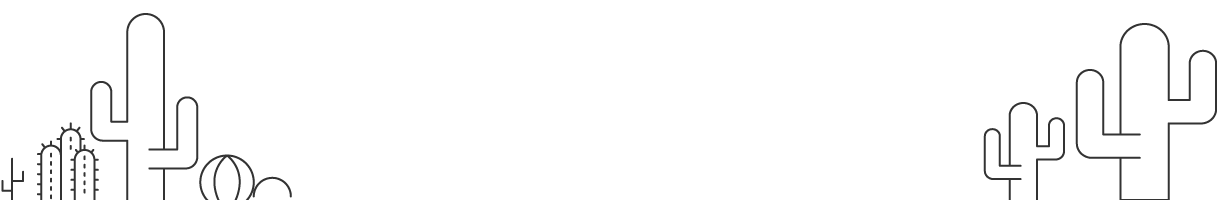
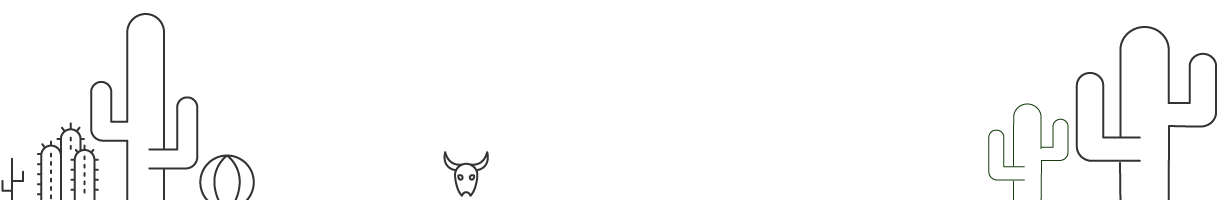
Work of 3/22
- redesigned top nav
- new sticker component
- mobile fixes for link section

diff --git a/src/pages/index.js b/src/pages/index.js
@@ -4,26 +4,23 @@ import { StaticImage } from "gatsby-plugin-image"
 
 import Layout from "../components/layout"
 import Seo from "../components/seo"
+import Sticker from "../components/sticker"
 
 const IndexPage = () => (
   <Layout>
     <Seo title="Home" />
 
+    <div style={{
 
+      maxWidth: 1170,
+      padding: `0 1.0875rem 1.45rem`,
+      margin: `0 auto`,
+      background:`url()no-repeat`,
 
-
-<div style={{
-
-  maxWidth: 1170,
-  padding: `0 1.0875rem 1.45rem`,
-  margin: `0 auto`,
-  background:`url()no-repeat`,
-
-}}>
+    }}>
 
 
 <div className="top-section">
-
 
     <StaticImage
       src="../images/book-cover.png"
@@ -42,7 +39,7 @@ const IndexPage = () => (
     <h3>Illustrated by Lucy Shin</h3>
 
     <p>
-<svg viewBox="0 0 233.03 233.03" className="sticker"><path class="cls-1" d="M146.63,227.06a18.19,18.19,0,0,1-8.72-2.28c-5.6-3.07-13-4.77-20.85-4.77s-15.26,1.7-20.86,4.77a18.19,18.19,0,0,1-8.72,2.28,17.59,17.59,0,0,1-16-10.3c-5.59-11.87-20.73-22.87-33.75-24.52a17.58,17.58,0,0,1-15.26-21c2.45-12.89-3.33-30.69-12.9-39.68a17.61,17.61,0,0,1,0-26c9.57-9,15.35-26.78,12.9-39.67a17.59,17.59,0,0,1,15.26-21c13-1.65,28.16-12.65,33.75-24.52a17.59,17.59,0,0,1,16-10.3,18.19,18.19,0,0,1,8.72,2.28c5.6,3.08,13,4.77,20.86,4.77s15.25-1.69,20.85-4.77a18.19,18.19,0,0,1,8.72-2.28,17.59,17.59,0,0,1,16,10.3c5.59,11.87,20.73,22.87,33.75,24.52a17.6,17.6,0,0,1,15.26,21c-2.45,12.89,3.33,30.69,12.9,39.67a17.61,17.61,0,0,1,0,26c-9.57,9-15.35,26.79-12.9,39.68a17.58,17.58,0,0,1-15.26,21c-13,1.65-28.16,12.65-33.75,24.52A17.59,17.59,0,0,1,146.63,227.06Z"/><path d="M146.63,13.1a14.61,14.61,0,0,1,13.26,8.58C166,34.59,181.82,46.11,196,47.9a14.61,14.61,0,0,1,12.69,17.46c-2.67,14,3.38,32.66,13.78,42.43a14.6,14.6,0,0,1,0,21.59c-10.4,9.77-16.45,28.4-13.78,42.42A14.61,14.61,0,0,1,196,189.26c-14.16,1.8-30,13.31-36.09,26.22a14.61,14.61,0,0,1-13.26,8.58,15,15,0,0,1-7.27-1.9c-6-3.32-14-5.15-22.3-5.15s-16.27,1.83-22.31,5.14a14.9,14.9,0,0,1-7.27,1.91,14.61,14.61,0,0,1-13.26-8.58c-6.08-12.91-21.93-24.42-36.09-26.22A14.61,14.61,0,0,1,25.44,171.8c2.67-14-3.38-32.65-13.78-42.42a14.6,14.6,0,0,1,0-21.59C22.06,98,28.11,79.38,25.44,65.36A14.61,14.61,0,0,1,38.13,47.9c14.16-1.79,30-13.31,36.09-26.22A14.61,14.61,0,0,1,87.48,13.1,14.9,14.9,0,0,1,94.75,15c6,3.31,14,5.14,22.31,5.14s16.26-1.83,22.3-5.14a14.9,14.9,0,0,1,7.27-1.91m0-6a21,21,0,0,0-10.16,2.65c-5.34,2.93-12.38,4.4-19.41,4.4S103,12.68,97.64,9.75A21,21,0,0,0,87.48,7.1a20.62,20.62,0,0,0-18.69,12C63.6,30.15,49.47,40.42,37.38,42A20.6,20.6,0,0,0,19.55,66.49c2.28,12-3.12,28.58-12,36.92a20.61,20.61,0,0,0,0,30.34c8.88,8.34,14.28,25,12,36.93a20.6,20.6,0,0,0,17.83,24.54C49.47,196.75,63.6,207,68.79,218a20.61,20.61,0,0,0,18.69,12,21,21,0,0,0,10.16-2.65C103,224.48,110,223,117.06,223s14.07,1.47,19.41,4.4a21,21,0,0,0,10.16,2.65,20.61,20.61,0,0,0,18.69-12c5.19-11,19.32-21.29,31.41-22.82a20.6,20.6,0,0,0,17.83-24.54c-2.28-12,3.12-28.59,12-36.93a20.61,20.61,0,0,0,0-30.34c-8.88-8.34-14.28-25-12-36.92A20.6,20.6,0,0,0,196.73,42c-12.09-1.53-26.22-11.8-31.41-22.83a20.6,20.6,0,0,0-18.69-12Z"/><path d="M88.48,90.28c-.12-3.91-.14-7.69-.08-11.33s.14-6.91.23-9.82a2.13,2.13,0,0,1,.4-1.45,1.11,1.11,0,0,1,1.1-.09,7.76,7.76,0,0,1,1.27.48,8.69,8.69,0,0,1,1.45,1,2.81,2.81,0,0,1,1,1.36,6,6,0,0,1,.15,1.8q-.11,3.14-.17,7.31c0,2.79-.07,5.66-.08,8.63s0,5.91,0,8.83,0,5.55,0,7.91c0,1.29-.42,1.78-1.43,1.48a12.49,12.49,0,0,1-2.67-1,5,5,0,0,1-2-2.86c-.35-1-.72-2.13-1.11-3.41s-.79-2.68-1.19-4.15-.81-3-1.22-4.55-.8-3.13-1.18-4.69c0,1.91,0,3.85-.06,5.81s0,3.86-.05,5.66,0,3.52,0,5.12,0,3,0,4.25a1.78,1.78,0,0,1-.22,1.12c-.16.17-.48.16-1,0l-1.37-.5a3.56,3.56,0,0,1-1.33-.91,2.62,2.62,0,0,1-.88-1.21,6.46,6.46,0,0,1-.28-2c0-.88-.07-2.1-.1-3.65s-.06-3.29-.09-5.23,0-4,0-6.19,0-4.33,0-6.45,0-4.13.07-6,.09-3.59.15-5a2.23,2.23,0,0,1,.49-1.53,1.08,1.08,0,0,1,1.12-.12c.59.21,1.18.44,1.76.68a12.74,12.74,0,0,1,1.83,1,2.89,2.89,0,0,1,1.16,1.19,9.73,9.73,0,0,1,.7,2.25c.16.77.38,1.78.65,3s.56,2.62.9,4.1.68,3,1,4.65S88.13,88.78,88.48,90.28Z"/><path d="M108.45,68.2a9.14,9.14,0,0,1,1.67,2.49,18.58,18.58,0,0,1,1,3.11,54.56,54.56,0,0,1,1.06,6.93,64.24,64.24,0,0,1,.28,7.75,56.5,56.5,0,0,1-.68,7.59,26.31,26.31,0,0,1-1.79,6.41,5.57,5.57,0,0,1-2,2.33,4.41,4.41,0,0,1-2.68.52,12.45,12.45,0,0,1-2.13-.41,6,6,0,0,1-2.08-1.09,9.94,9.94,0,0,1-1.56-1.68,9,9,0,0,1-1.31-2.41A30.21,30.21,0,0,1,97,94.91a50.57,50.57,0,0,1-.68-5.51c-.13-1.89-.17-3.83-.11-5.79a46.18,46.18,0,0,1,.53-5.74,43.23,43.23,0,0,1,1.16-5.29,21.72,21.72,0,0,1,1.82-4.47,5.2,5.2,0,0,1,1.78-1.8,3.25,3.25,0,0,1,2.11-.51,10.42,10.42,0,0,1,2.67.82A7.28,7.28,0,0,1,108.45,68.2Zm-3.3,4.4c-.34-.14-.69.16-1,.9a14.59,14.59,0,0,0-1,2.92c-.29,1.21-.55,2.57-.77,4.1s-.37,3-.46,4.4-.11,3-.07,4.56.16,3.08.33,4.44a21.06,21.06,0,0,0,.7,3.48c.29,1,.65,1.54,1.07,1.73s.74,0,1.1-.53a8.29,8.29,0,0,0,1-2.48,34.74,34.74,0,0,0,.69-4c.19-1.56.31-3.24.36-5.06.06-1.44.06-3,0-4.6s-.17-3.16-.34-4.57a26.11,26.11,0,0,0-.64-3.62C105.79,73.3,105.48,72.73,105.15,72.6Z"/><path d="M121.45,83.82q.48-3.28,1-6.27t.9-5.37c.27-1.58.51-2.74.7-3.48a2.38,2.38,0,0,1,.5-1.17,1.08,1.08,0,0,1,1-.11,5.74,5.74,0,0,1,1.2.43c.33.17.72.37,1.18.59a1.91,1.91,0,0,1,.91,1,9.62,9.62,0,0,1,.32,1.81c.05.47.11,1.3.2,2.49s.18,2.57.3,4.16.24,3.31.38,5.15.28,3.67.42,5.46q.41-3.42.9-7.18c.33-2.51.64-4.9.95-7.16s.58-4.31.85-6.13.47-3.2.61-4.14.3-1.3.52-1.41.6,0,1.15.27a13.36,13.36,0,0,1,2.39,1.89,3.78,3.78,0,0,1,.8,1.83,7.62,7.62,0,0,1,0,2.08c-.21,1.32-.44,2.86-.67,4.62s-.47,3.63-.73,5.58-.5,4-.75,6-.5,4.11-.72,6.09-.43,3.88-.63,5.67-.38,3.4-.53,4.82a1.93,1.93,0,0,1-.57,1.31,1.59,1.59,0,0,1-1.34.12,10.73,10.73,0,0,1-1.56-.5,14.4,14.4,0,0,0-1.35-.52,2.73,2.73,0,0,1-1.23-1.28,7.25,7.25,0,0,1-.61-1.91c-.13-.67-.27-1.49-.45-2.48L127,92.93q-.27-1.68-.54-3.45c-.18-1.17-.33-2.3-.44-3.38-.26,1.43-.52,2.93-.78,4.51s-.52,3.12-.77,4.61-.47,2.89-.67,4.19-.36,2.39-.49,3.25-.33,1.17-.57,1.32a1.33,1.33,0,0,1-1,.07,15.23,15.23,0,0,1-3.15-1.09,2.11,2.11,0,0,1-1-1,7.51,7.51,0,0,1-.51-2.07c-.19-1.34-.4-2.88-.63-4.61s-.43-3.56-.64-5.49-.4-4-.59-6-.37-4.06-.55-6.06-.32-3.92-.45-5.78-.23-3.56-.31-5.09a3.13,3.13,0,0,1,.19-1.6c.16-.26.5-.33,1-.21a15.49,15.49,0,0,1,1.6.47,4.89,4.89,0,0,1,1.38.8,3.26,3.26,0,0,1,1,1.86,13.44,13.44,0,0,1,.31,2.35c0,.71.1,1.78.17,3.2s.16,3,.25,4.84.21,3.69.34,5.67.26,3.88.4,5.71C120.82,88.05,121.12,86,121.45,83.82Z"/><path d="M49,154.33a19.54,19.54,0,0,0-3.3,1.57c-.24,1.33-.44,2.57-.6,3.73s-.32,2.29-.47,3.4c-.1.59-.25.95-.44,1.07s-.5.07-.93-.16l-.8-.5a10.14,10.14,0,0,1-.9-.65,3.9,3.9,0,0,1-.78-.84,2.71,2.71,0,0,1-.44-1.08,11.1,11.1,0,0,1,0-2.09q.38-3.42,1-7.76t1.31-8.84c.47-3,1-5.91,1.47-8.75s1-5.3,1.44-7.39a5.25,5.25,0,0,1,.74-1.82,1.7,1.7,0,0,1,1.59-.68,9.71,9.71,0,0,1,3.12.33c.81.26,1.58.52,2.32.78a1.93,1.93,0,0,1,1.1,1,5.92,5.92,0,0,1,.38,1.88q.27,2.9.71,6.91t1,8.52c.38,3,.79,6,1.21,9.16s.84,6.07,1.25,8.89a2.59,2.59,0,0,1,0,1.29q-.16.38-.84.45t-1.29.06a3.21,3.21,0,0,1-1.3-.35,2.11,2.11,0,0,1-1-.82,6.61,6.61,0,0,1-.59-1.93c-.18-1-.37-2-.58-3.16s-.4-2.37-.59-3.68Zm2.65-8.88c-.31-2.43-.62-4.81-.93-7.17s-.57-4.65-.81-6.88q-.6,3.14-1.33,7.11t-1.45,8.34A34.69,34.69,0,0,1,51.64,145.45Z"/><path d="M75.79,131.27q-.23,2.58-.56,5.59t-.72,6.21q-.39,3.23-.81,6.31c-.29,2.06-.56,4-.82,5.87s-.51,3.49-.74,4.91a3,3,0,0,1-.73,1.69c-.31.26-.79.25-1.45,0s-1.26-.55-1.83-.83a10.8,10.8,0,0,1-1.82-1.13,5.28,5.28,0,0,1-1.69-2.15,15.32,15.32,0,0,1-.92-2.54q-1.41-6.4-2.68-14t-2.41-16a4.8,4.8,0,0,1,0-1.51c.08-.3.35-.47.81-.52a4.16,4.16,0,0,1,1.28,0,5.64,5.64,0,0,1,1.28.45,4.17,4.17,0,0,1,2.08,3.31c.22,1.35.47,2.88.74,4.61s.57,3.6.9,5.61.67,4.12,1,6.31.74,4.42,1.13,6.66q1-6.85,1.76-14c.52-4.77,1-9.3,1.52-13.62a1.81,1.81,0,0,1,.36-1,.78.78,0,0,1,.66-.25,2,2,0,0,1,.87.34,11.52,11.52,0,0,1,1,.72A6.29,6.29,0,0,1,75.69,124a4.23,4.23,0,0,1,.42,2.79C76.05,128.07,76,129.55,75.79,131.27Z"/><path d="M86.9,150.31a19.29,19.29,0,0,0-3.31,1.57c-.23,1.33-.43,2.57-.59,3.73s-.32,2.29-.48,3.4c-.09.59-.24,1-.43,1.07s-.5.07-.93-.16l-.8-.5a7.87,7.87,0,0,1-.9-.65,3.9,3.9,0,0,1-.78-.84,2.65,2.65,0,0,1-.44-1.08,10.28,10.28,0,0,1,0-2.09c.25-2.28.57-4.87,1-7.76s.85-5.84,1.32-8.84,1-5.91,1.46-8.75,1-5.3,1.45-7.39a5.25,5.25,0,0,1,.74-1.82,1.7,1.7,0,0,1,1.59-.68,9.71,9.71,0,0,1,3.12.33q1.22.39,2.31.78a1.92,1.92,0,0,1,1.11,1,6.21,6.21,0,0,1,.38,1.88c.18,1.93.41,4.23.71,6.91s.64,5.52,1,8.52.78,6.05,1.21,9.16.84,6.07,1.25,8.9a2.56,2.56,0,0,1,0,1.28q-.16.38-.84.45c-.46,0-.89.06-1.3.06a3.21,3.21,0,0,1-1.29-.35,2,2,0,0,1-1-.82,6.61,6.61,0,0,1-.59-1.93c-.18-1-.38-2-.58-3.16s-.4-2.37-.59-3.68Zm2.64-8.88c-.31-2.43-.61-4.81-.92-7.17s-.57-4.65-.81-6.88q-.6,3.13-1.33,7.11c-.49,2.64-1,5.42-1.45,8.34A36.15,36.15,0,0,1,89.54,141.43Z"/><path d="M102.47,121a3,3,0,0,1,1,1.2,4.48,4.48,0,0,1,.16,1.65c-.08,1.27-.15,2.76-.22,4.48s-.11,3.53-.17,5.46-.09,4-.13,6-.07,4.14-.1,6.15,0,3.95,0,5.82,0,3.54,0,5a2.13,2.13,0,0,1-.25,1.15c-.14.18-.45.2-.92.05l-1.4-.57a5,5,0,0,1-1.3-.79,2.55,2.55,0,0,1-.92-1.2,7.36,7.36,0,0,1-.32-2c-.07-1.15-.12-2.59-.17-4.31s-.08-3.58-.11-5.59,0-4.11-.06-6.29,0-4.29,0-6.34,0-4,.08-5.79.08-3.36.13-4.62a2.27,2.27,0,0,1,.42-1.43c.23-.19.59-.2,1.1,0a7.27,7.27,0,0,1,1.66.77A10.17,10.17,0,0,1,102.47,121Z"/><path d="M118.19,153.38,114.87,155c-1.13.55-2.21,1.08-3.23,1.6a2.77,2.77,0,0,1-1,.43,1.59,1.59,0,0,1-.69,0,1.22,1.22,0,0,1-.51-.25,4.32,4.32,0,0,1-.45-.42,11.28,11.28,0,0,1-.93-1c-.28-.36-.65-.83-1.12-1.39a5.7,5.7,0,0,1-.83-1.52,6.16,6.16,0,0,1-.32-2.09c0-1.26-.09-2.71-.12-4.37s0-3.41,0-5.26,0-3.79.06-5.77.07-3.93.13-5.85.12-3.74.19-5.47.16-3.3.25-4.71a2.11,2.11,0,0,1,.48-1.4,1.1,1.1,0,0,1,1.08,0,8.63,8.63,0,0,1,1.65.72,8.88,8.88,0,0,1,1.63,1.13,3.16,3.16,0,0,1,.91,1.21,3.69,3.69,0,0,1,.11,1.6q-.18,2.53-.33,5.67c-.1,2.09-.2,4.27-.28,6.53s-.17,4.55-.24,6.88-.14,4.59-.18,6.77a20.61,20.61,0,0,1,2.17-.79c.69-.21,1.44-.41,2.23-.6a1.49,1.49,0,0,1,1.1.07,2.39,2.39,0,0,1,.85,1.11,16.27,16.27,0,0,1,.73,1.71c.21.6.38,1.17.53,1.74a4.87,4.87,0,0,1,.27,1.4C119,152.88,118.71,153.13,118.19,153.38Z"/><path d="M128.69,145.88a19.54,19.54,0,0,0-3.3,1.57c-.24,1.32-.43,2.57-.6,3.73s-.31,2.29-.47,3.4c-.1.59-.24.94-.43,1.07s-.5.07-.93-.16l-.8-.5a7.87,7.87,0,0,1-.9-.65,3.9,3.9,0,0,1-.78-.84,2.57,2.57,0,0,1-.44-1.08,10.37,10.37,0,0,1,0-2.1c.24-2.27.57-4.86,1-7.75s.85-5.84,1.32-8.84,1-5.92,1.46-8.75,1-5.3,1.45-7.4a5.09,5.09,0,0,1,.74-1.81,1.7,1.7,0,0,1,1.59-.68,9.71,9.71,0,0,1,3.12.33c.81.26,1.58.51,2.31.78a1.89,1.89,0,0,1,1.11,1,6.53,6.53,0,0,1,.38,1.88q.26,2.9.71,6.91t1,8.51c.39,3,.79,6.06,1.22,9.16s.84,6.08,1.25,8.9a2.59,2.59,0,0,1,0,1.29c-.11.25-.39.4-.84.44a12,12,0,0,1-1.3.07,3.21,3.21,0,0,1-1.29-.35,2.07,2.07,0,0,1-1-.82,6.61,6.61,0,0,1-.59-1.93c-.18-1-.38-2-.58-3.16s-.4-2.37-.59-3.68Zm2.65-8.88c-.31-2.43-.61-4.82-.92-7.17s-.57-4.65-.81-6.88c-.4,2.09-.84,4.46-1.34,7.11s-1,5.42-1.44,8.34A34.55,34.55,0,0,1,131.34,137Z"/><path d="M152.24,133.25a6.82,6.82,0,0,1,1.94,2.37A13.43,13.43,0,0,1,155.4,139a10.28,10.28,0,0,1,.17,3.69,11.14,11.14,0,0,1-1,3.15,12.46,12.46,0,0,1-1.4,2.35,22.61,22.61,0,0,1-1.76,2.11,18.79,18.79,0,0,1-1.92,1.79,17.9,17.9,0,0,1-1.91,1.35,6.48,6.48,0,0,1-.84.47,1.45,1.45,0,0,1-.69.16,1.49,1.49,0,0,1-.69-.21,4,4,0,0,1-.8-.61A9.61,9.61,0,0,1,143,152c-.44-.45-1-1-1.55-1.76-.23-.38-.43-.71-.61-1a4.49,4.49,0,0,1-.43-.88,5.08,5.08,0,0,1-.26-1.07,12.21,12.21,0,0,1-.1-1.53c-.1-2-.17-4.15-.21-6.55s-.08-4.85-.13-7.35-.1-5-.16-7.46-.16-4.75-.3-6.85a14.62,14.62,0,0,1,3-2.52,13.6,13.6,0,0,1,3.69-1.7,8.77,8.77,0,0,1,3.64-.28,4.33,4.33,0,0,1,2.88,1.66,21.16,21.16,0,0,1,1.78,2.86,17.47,17.47,0,0,1,1.34,3.67,10.69,10.69,0,0,1,.16,4.59,14.55,14.55,0,0,1-1.28,3.92q-.48.87-1,1.74A15.68,15.68,0,0,1,152.24,133.25Zm-7.16,5.15c0,1.31-.05,2.59-.08,3.85s0,2.55,0,3.84a13.12,13.12,0,0,0,2.33-1.8,10.58,10.58,0,0,0,1.68-2.08,8.18,8.18,0,0,0,.94-2.07,3.34,3.34,0,0,0,.07-1.79,1.65,1.65,0,0,0-.59-.81,2.13,2.13,0,0,0-1-.38,3.65,3.65,0,0,0-1.48.24A6.63,6.63,0,0,0,145.08,138.4Zm.25-7.65a13.49,13.49,0,0,0,2.56-2.44,17.47,17.47,0,0,0,1.79-2.73,10.37,10.37,0,0,0,1-2.5,3.75,3.75,0,0,0,.07-1.8c-.21-.7-.79-1-1.75-.82a6.8,6.8,0,0,0-3.31,2.07c-.09,1.2-.15,2.49-.2,3.86S145.38,129.21,145.33,130.75Z"/><path d="M170.22,147.87l-3.32,1.6c-1.13.55-2.21,1.08-3.24,1.6a2.71,2.71,0,0,1-1,.44,1.75,1.75,0,0,1-.69,0,1.32,1.32,0,0,1-.52-.25l-.45-.41a11.45,11.45,0,0,1-.92-1.06c-.28-.36-.65-.82-1.12-1.39a5.7,5.7,0,0,1-.83-1.52,6.12,6.12,0,0,1-.32-2.09c-.06-1.26-.09-2.71-.12-4.36s0-3.41,0-5.27,0-3.78.06-5.76.07-3.94.13-5.85.11-3.74.19-5.47.15-3.3.25-4.71a2.12,2.12,0,0,1,.48-1.41,1.09,1.09,0,0,1,1.07,0,8.43,8.43,0,0,1,1.66.72,8.21,8.21,0,0,1,1.62,1.13,3.15,3.15,0,0,1,.92,1.2,3.9,3.9,0,0,1,.11,1.61c-.12,1.68-.23,3.57-.33,5.66s-.2,4.27-.28,6.53-.17,4.56-.25,6.88-.13,4.59-.17,6.78a20.75,20.75,0,0,1,2.17-.8c.69-.21,1.43-.41,2.23-.59a1.45,1.45,0,0,1,1.1.06,2.52,2.52,0,0,1,.85,1.11,16.38,16.38,0,0,1,.72,1.72,16.12,16.12,0,0,1,.53,1.73,4.28,4.28,0,0,1,.27,1.41C171,147.36,170.73,147.61,170.22,147.87Z"/><path d="M177.06,111.22a24.41,24.41,0,0,1,5.45-1.65c.87-.16,1.51.35,1.91,1.53a13.63,13.63,0,0,1,.64,1.68c.15.49.31,1,.48,1.63a3.18,3.18,0,0,1,.09,1.45,1.15,1.15,0,0,1-.81.63c-.91.26-1.88.55-2.89.86s-2.05.67-3.15,1.06c-.08,1.27-.16,2.61-.22,4s-.16,2.88-.26,4.43a9.12,9.12,0,0,1,1.47-.44c.49-.1,1-.2,1.53-.29a1.73,1.73,0,0,1,1.11.11,2.23,2.23,0,0,1,.8,1.07,14,14,0,0,1,.69,1.72c.18.56.36,1.14.53,1.73a2.86,2.86,0,0,1,.19,1.42,1.39,1.39,0,0,1-.78.69q-1.47.67-3,1.32c-1,.43-2,.89-3,1.36,0,1-.06,2-.1,2.9s-.07,1.86-.11,2.75a21.41,21.41,0,0,1,2.26-.88c.73-.23,1.52-.44,2.36-.63a1.43,1.43,0,0,1,1.13.09,2.2,2.2,0,0,1,.82,1.09,18.72,18.72,0,0,1,.72,1.76l.59,1.73a3.31,3.31,0,0,1,.17,1.39c-.07.26-.32.5-.76.72-1.08.52-2.19,1.07-3.32,1.63s-2.21,1.09-3.24,1.57a2,2,0,0,1-1.6.4,2.85,2.85,0,0,1-1-.68c-.34-.34-.66-.69-1-1s-.67-.83-1.08-1.4a5.62,5.62,0,0,1-.84-1.6,8.3,8.3,0,0,1-.38-2.26l0-29.57A45.9,45.9,0,0,1,177.06,111.22Z"/><path d="M188.55,142.83a4.6,4.6,0,0,1,.58-1.62,2.17,2.17,0,0,1,1-.93,2,2,0,0,1,1.53.09,2.9,2.9,0,0,1,1.27.92,5.41,5.41,0,0,1,.82,1.39,6.61,6.61,0,0,1,.41,1.57,7.14,7.14,0,0,1,.05,1.43,7.47,7.47,0,0,1-.19,1.12,6.59,6.59,0,0,1-.43,1.25,3.58,3.58,0,0,1-.73,1,1.73,1.73,0,0,1-1,.5,2.38,2.38,0,0,1-2.24-1.07,6.5,6.5,0,0,1-1.18-3.69A7.65,7.65,0,0,1,188.55,142.83Zm6.44-33a4.59,4.59,0,0,1,.15,1.81q-.22,3.14-.45,6.47c-.14,2.21-.28,4.43-.41,6.64s-.24,4.38-.34,6.51-.17,4.13-.22,6a2,2,0,0,1-.27,1.28c-.17.17-.46.2-.88.07a6.72,6.72,0,0,1-2.65-1.25,2.57,2.57,0,0,1-.92-1.19,5.93,5.93,0,0,1-.23-2q0-2.66,0-6.11c0-2.31.06-4.65.11-7s.11-4.69.19-7,.17-4.25.26-6a2.56,2.56,0,0,1,.39-1.5c.21-.21.58-.21,1.12,0a9.49,9.49,0,0,1,3.2,1.86A3.23,3.23,0,0,1,195,109.85Z"/></svg>
+    <Sticker />
     Our hope in writing this book is to help our kids, families, and adults reconnect with the wonders of the natural world. In the past decades, we've seen society drift more and more into the metaverse and our mission is to remind all of us to appreciate the wonders of nature that are often right outside our door. With more reliance on technology and the ever increasing pace of life, it is even more vital that our children actively engage with the natural world, benefit from its restorative effects on mental and physical health, and see the magic that exists there. </p>
 
     <p>We hope that Min and Chula's adventures wow and fascinate us with the place we all call home and do what we can to protect, preserve, and restore it.</p>
@@ -58,7 +55,6 @@ const IndexPage = () => (
     <div id="bio">
 
     <div style={{
-
       maxWidth: 968,
       padding: `0 1.0875rem 8.45rem`,
       margin: `3rem auto 0`,
@@ -126,19 +122,18 @@ const IndexPage = () => (
 
 <h1>Get Outside!</h1>
 
-<div style={{
-  display:`flex`,
-  padding: `0 1.0875rem 1.45rem`,
-  margin: `3rem auto`,
-  justifyContent:`center`,
-  alignItems:`center`,
-  }}>
+<div className="nps-section">
 
-  <div style={{
-    marginRight:`3rem`,
-  }}>
+  <div className="nps-logo">
 
-  <a title="U.S. government, National Park Service, Public domain, via Wikimedia Commons" href="javascript:void()"><img width="256" alt="US-NationalParkService-Logo" src="https://upload.wikimedia.org/wikipedia/commons/thumb/1/1d/US-NationalParkService-Logo.svg/256px-US-NationalParkService-Logo.svg.png" /></a>
+<StaticImage
+src="https://upload.wikimedia.org/wikipedia/commons/thumb/1/1d/US-NationalParkService-Logo.svg/256px-US-NationalParkService-Logo.svg.png"
+alt="US-NationalParkService-Logo"
+title="U.S. government, National Park Service, Public domain, via Wikimedia Commons"
+style={{width:256}}
+
+/>
+
   </div>
 
   <div>
@@ -148,33 +143,33 @@ const IndexPage = () => (
   <Link to="https://www.nps.gov/findapark/index.htm" target="_blank">How to find national parks in your state</Link><br/>
   <Link to="https://www.nps.gov/subjects/camping/campground.htm" target="_blank">Finding a campground from NPS</Link><br/>
   </div>
-</div>
+</div>{/* end nps section */ }
 
 <h2>Outdoor activities:</h2>
 
 <div className="link-sub">
 
-<div><Link to="https://www.rei.com/learn/expert-advice/camping-kids.html" target="_blank"><StaticImage src="../images/rei-coop.png" alt="REI"/>Camping with Kids</Link></div>
+<Link to="https://www.rei.com/learn/expert-advice/camping-kids.html" target="_blank"><StaticImage src="../images/rei-coop.png" alt="REI"/><div>Camping with Kids</div></Link>
 
-<div><Link to="https://merlin.allaboutbirds.org/" target="_blank"><StaticImage src="../images/cornell.png" alt="Merlin"/>Learn Bird Idenfication</Link></div>
+<Link to="https://merlin.allaboutbirds.org/" target="_blank"><StaticImage src="../images/cornell.png" alt="Merlin"/><div>Learn Bird Idenfication</div></Link>
 
-<div><Link to="https://inaturalist.org" target="_blank"><StaticImage src="../images/inaturalist.png" alt="iNaturalist"/>Record you observations</Link></div>
+<Link to="https://inaturalist.org" target="_blank"><StaticImage src="../images/inaturalist.png" alt="iNaturalist"/><div>Record you observations</div></Link>
 
-<div><Link to="https://www.outwardbound.org" target="_blank"><StaticImage src="../images/outwardbound.png" alt="Outward Bound" />Outward Bound</Link></div>
+<Link to="https://www.outwardbound.org" target="_blank"><StaticImage src="../images/outwardbound.png" alt="Outward Bound" /><div>Outward Bound</div></Link>
 
-</div>
+</div>{/* end outdoor  */ }
 
 <h2>How the outdoors benefits kids:</h2>
 <div className="link-sub">
 
 
-<div><Link to="https://www.nature.org/en-us/about-us/who-we-are/how-we-work/youth-engagement/benefits-of-outdoors-for-kids/" target="_blank"><StaticImage src="../images/natureconservancy.png" alt="Nature Conservancy"/>Getting kids outside</Link></div>
+<Link to="https://www.nature.org/en-us/about-us/who-we-are/how-we-work/youth-engagement/benefits-of-outdoors-for-kids/" target="_blank"><StaticImage src="../images/natureconservancy.png" alt="Nature Conservancy"/><div>Getting kids outside</div></Link>
 
-<div><Link to="https://www.scholastic.com/parents/family-life/parent-child/why-kids-need-nature.html" target="_blank"><StaticImage src="../images/scholastic.png" alt="Schoolastic"/>Why Kids Need Nature</Link></div>
+<Link to="https://www.scholastic.com/parents/family-life/parent-child/why-kids-need-nature.html" target="_blank"><StaticImage src="../images/scholastic.png" alt="Schoolastic"/><div>Why Kids Need Nature</div></Link>
 
-<div><Link to="https://www.outdoors.org/resources/amc-outdoors/outdoor-resources/10-backyard-nature-activities-for-kids/" target="_blank"><StaticImage src="../images/amc.png" alt="Be Outdoors - AMC MTN Club"/>10 Backyard Nature Activities for Kids</Link></div>
+<Link to="https://www.outdoors.org/resources/amc-outdoors/outdoor-resources/10-backyard-nature-activities-for-kids/" target="_blank"><StaticImage src="../images/amc.png" alt="Be Outdoors - AMC MTN Club"/><div>10 Backyard Nature Activities for Kids</div></Link>
 
- <div><Link to="https://www.pbs.org/parents/observing-nature" target="_blank"><StaticImage src="../images/pbs.png" alt="PBS kids"/>Observing Nature</Link></div>
+<Link to="https://www.pbs.org/parents/observing-nature" target="_blank"><StaticImage src="../images/pbs.png" alt="PBS kids"/><div>Observing Nature</div></Link>
 
 
 </div> {/* end outdoors for kids */ }
@@ -185,7 +180,6 @@ const IndexPage = () => (
 
 
 </Layout>
-
 
 )
 

diff --git a/src/components/sticker.js b/src/components/sticker.js
@@ -1,0 +1,10 @@
+import * as React from "react"
+
+
+const Sticker = () => (
+<svg viewBox="0 0 233.03 233.03" className="sticker"><path class="cls-1" d="M146.63,227.06a18.19,18.19,0,0,1-8.72-2.28c-5.6-3.07-13-4.77-20.85-4.77s-15.26,1.7-20.86,4.77a18.19,18.19,0,0,1-8.72,2.28,17.59,17.59,0,0,1-16-10.3c-5.59-11.87-20.73-22.87-33.75-24.52a17.58,17.58,0,0,1-15.26-21c2.45-12.89-3.33-30.69-12.9-39.68a17.61,17.61,0,0,1,0-26c9.57-9,15.35-26.78,12.9-39.67a17.59,17.59,0,0,1,15.26-21c13-1.65,28.16-12.65,33.75-24.52a17.59,17.59,0,0,1,16-10.3,18.19,18.19,0,0,1,8.72,2.28c5.6,3.08,13,4.77,20.86,4.77s15.25-1.69,20.85-4.77a18.19,18.19,0,0,1,8.72-2.28,17.59,17.59,0,0,1,16,10.3c5.59,11.87,20.73,22.87,33.75,24.52a17.6,17.6,0,0,1,15.26,21c-2.45,12.89,3.33,30.69,12.9,39.67a17.61,17.61,0,0,1,0,26c-9.57,9-15.35,26.79-12.9,39.68a17.58,17.58,0,0,1-15.26,21c-13,1.65-28.16,12.65-33.75,24.52A17.59,17.59,0,0,1,146.63,227.06Z"/><path d="M146.63,13.1a14.61,14.61,0,0,1,13.26,8.58C166,34.59,181.82,46.11,196,47.9a14.61,14.61,0,0,1,12.69,17.46c-2.67,14,3.38,32.66,13.78,42.43a14.6,14.6,0,0,1,0,21.59c-10.4,9.77-16.45,28.4-13.78,42.42A14.61,14.61,0,0,1,196,189.26c-14.16,1.8-30,13.31-36.09,26.22a14.61,14.61,0,0,1-13.26,8.58,15,15,0,0,1-7.27-1.9c-6-3.32-14-5.15-22.3-5.15s-16.27,1.83-22.31,5.14a14.9,14.9,0,0,1-7.27,1.91,14.61,14.61,0,0,1-13.26-8.58c-6.08-12.91-21.93-24.42-36.09-26.22A14.61,14.61,0,0,1,25.44,171.8c2.67-14-3.38-32.65-13.78-42.42a14.6,14.6,0,0,1,0-21.59C22.06,98,28.11,79.38,25.44,65.36A14.61,14.61,0,0,1,38.13,47.9c14.16-1.79,30-13.31,36.09-26.22A14.61,14.61,0,0,1,87.48,13.1,14.9,14.9,0,0,1,94.75,15c6,3.31,14,5.14,22.31,5.14s16.26-1.83,22.3-5.14a14.9,14.9,0,0,1,7.27-1.91m0-6a21,21,0,0,0-10.16,2.65c-5.34,2.93-12.38,4.4-19.41,4.4S103,12.68,97.64,9.75A21,21,0,0,0,87.48,7.1a20.62,20.62,0,0,0-18.69,12C63.6,30.15,49.47,40.42,37.38,42A20.6,20.6,0,0,0,19.55,66.49c2.28,12-3.12,28.58-12,36.92a20.61,20.61,0,0,0,0,30.34c8.88,8.34,14.28,25,12,36.93a20.6,20.6,0,0,0,17.83,24.54C49.47,196.75,63.6,207,68.79,218a20.61,20.61,0,0,0,18.69,12,21,21,0,0,0,10.16-2.65C103,224.48,110,223,117.06,223s14.07,1.47,19.41,4.4a21,21,0,0,0,10.16,2.65,20.61,20.61,0,0,0,18.69-12c5.19-11,19.32-21.29,31.41-22.82a20.6,20.6,0,0,0,17.83-24.54c-2.28-12,3.12-28.59,12-36.93a20.61,20.61,0,0,0,0-30.34c-8.88-8.34-14.28-25-12-36.92A20.6,20.6,0,0,0,196.73,42c-12.09-1.53-26.22-11.8-31.41-22.83a20.6,20.6,0,0,0-18.69-12Z"/><path d="M88.48,90.28c-.12-3.91-.14-7.69-.08-11.33s.14-6.91.23-9.82a2.13,2.13,0,0,1,.4-1.45,1.11,1.11,0,0,1,1.1-.09,7.76,7.76,0,0,1,1.27.48,8.69,8.69,0,0,1,1.45,1,2.81,2.81,0,0,1,1,1.36,6,6,0,0,1,.15,1.8q-.11,3.14-.17,7.31c0,2.79-.07,5.66-.08,8.63s0,5.91,0,8.83,0,5.55,0,7.91c0,1.29-.42,1.78-1.43,1.48a12.49,12.49,0,0,1-2.67-1,5,5,0,0,1-2-2.86c-.35-1-.72-2.13-1.11-3.41s-.79-2.68-1.19-4.15-.81-3-1.22-4.55-.8-3.13-1.18-4.69c0,1.91,0,3.85-.06,5.81s0,3.86-.05,5.66,0,3.52,0,5.12,0,3,0,4.25a1.78,1.78,0,0,1-.22,1.12c-.16.17-.48.16-1,0l-1.37-.5a3.56,3.56,0,0,1-1.33-.91,2.62,2.62,0,0,1-.88-1.21,6.46,6.46,0,0,1-.28-2c0-.88-.07-2.1-.1-3.65s-.06-3.29-.09-5.23,0-4,0-6.19,0-4.33,0-6.45,0-4.13.07-6,.09-3.59.15-5a2.23,2.23,0,0,1,.49-1.53,1.08,1.08,0,0,1,1.12-.12c.59.21,1.18.44,1.76.68a12.74,12.74,0,0,1,1.83,1,2.89,2.89,0,0,1,1.16,1.19,9.73,9.73,0,0,1,.7,2.25c.16.77.38,1.78.65,3s.56,2.62.9,4.1.68,3,1,4.65S88.13,88.78,88.48,90.28Z"/><path d="M108.45,68.2a9.14,9.14,0,0,1,1.67,2.49,18.58,18.58,0,0,1,1,3.11,54.56,54.56,0,0,1,1.06,6.93,64.24,64.24,0,0,1,.28,7.75,56.5,56.5,0,0,1-.68,7.59,26.31,26.31,0,0,1-1.79,6.41,5.57,5.57,0,0,1-2,2.33,4.41,4.41,0,0,1-2.68.52,12.45,12.45,0,0,1-2.13-.41,6,6,0,0,1-2.08-1.09,9.94,9.94,0,0,1-1.56-1.68,9,9,0,0,1-1.31-2.41A30.21,30.21,0,0,1,97,94.91a50.57,50.57,0,0,1-.68-5.51c-.13-1.89-.17-3.83-.11-5.79a46.18,46.18,0,0,1,.53-5.74,43.23,43.23,0,0,1,1.16-5.29,21.72,21.72,0,0,1,1.82-4.47,5.2,5.2,0,0,1,1.78-1.8,3.25,3.25,0,0,1,2.11-.51,10.42,10.42,0,0,1,2.67.82A7.28,7.28,0,0,1,108.45,68.2Zm-3.3,4.4c-.34-.14-.69.16-1,.9a14.59,14.59,0,0,0-1,2.92c-.29,1.21-.55,2.57-.77,4.1s-.37,3-.46,4.4-.11,3-.07,4.56.16,3.08.33,4.44a21.06,21.06,0,0,0,.7,3.48c.29,1,.65,1.54,1.07,1.73s.74,0,1.1-.53a8.29,8.29,0,0,0,1-2.48,34.74,34.74,0,0,0,.69-4c.19-1.56.31-3.24.36-5.06.06-1.44.06-3,0-4.6s-.17-3.16-.34-4.57a26.11,26.11,0,0,0-.64-3.62C105.79,73.3,105.48,72.73,105.15,72.6Z"/><path d="M121.45,83.82q.48-3.28,1-6.27t.9-5.37c.27-1.58.51-2.74.7-3.48a2.38,2.38,0,0,1,.5-1.17,1.08,1.08,0,0,1,1-.11,5.74,5.74,0,0,1,1.2.43c.33.17.72.37,1.18.59a1.91,1.91,0,0,1,.91,1,9.62,9.62,0,0,1,.32,1.81c.05.47.11,1.3.2,2.49s.18,2.57.3,4.16.24,3.31.38,5.15.28,3.67.42,5.46q.41-3.42.9-7.18c.33-2.51.64-4.9.95-7.16s.58-4.31.85-6.13.47-3.2.61-4.14.3-1.3.52-1.41.6,0,1.15.27a13.36,13.36,0,0,1,2.39,1.89,3.78,3.78,0,0,1,.8,1.83,7.62,7.62,0,0,1,0,2.08c-.21,1.32-.44,2.86-.67,4.62s-.47,3.63-.73,5.58-.5,4-.75,6-.5,4.11-.72,6.09-.43,3.88-.63,5.67-.38,3.4-.53,4.82a1.93,1.93,0,0,1-.57,1.31,1.59,1.59,0,0,1-1.34.12,10.73,10.73,0,0,1-1.56-.5,14.4,14.4,0,0,0-1.35-.52,2.73,2.73,0,0,1-1.23-1.28,7.25,7.25,0,0,1-.61-1.91c-.13-.67-.27-1.49-.45-2.48L127,92.93q-.27-1.68-.54-3.45c-.18-1.17-.33-2.3-.44-3.38-.26,1.43-.52,2.93-.78,4.51s-.52,3.12-.77,4.61-.47,2.89-.67,4.19-.36,2.39-.49,3.25-.33,1.17-.57,1.32a1.33,1.33,0,0,1-1,.07,15.23,15.23,0,0,1-3.15-1.09,2.11,2.11,0,0,1-1-1,7.51,7.51,0,0,1-.51-2.07c-.19-1.34-.4-2.88-.63-4.61s-.43-3.56-.64-5.49-.4-4-.59-6-.37-4.06-.55-6.06-.32-3.92-.45-5.78-.23-3.56-.31-5.09a3.13,3.13,0,0,1,.19-1.6c.16-.26.5-.33,1-.21a15.49,15.49,0,0,1,1.6.47,4.89,4.89,0,0,1,1.38.8,3.26,3.26,0,0,1,1,1.86,13.44,13.44,0,0,1,.31,2.35c0,.71.1,1.78.17,3.2s.16,3,.25,4.84.21,3.69.34,5.67.26,3.88.4,5.71C120.82,88.05,121.12,86,121.45,83.82Z"/><path d="M49,154.33a19.54,19.54,0,0,0-3.3,1.57c-.24,1.33-.44,2.57-.6,3.73s-.32,2.29-.47,3.4c-.1.59-.25.95-.44,1.07s-.5.07-.93-.16l-.8-.5a10.14,10.14,0,0,1-.9-.65,3.9,3.9,0,0,1-.78-.84,2.71,2.71,0,0,1-.44-1.08,11.1,11.1,0,0,1,0-2.09q.38-3.42,1-7.76t1.31-8.84c.47-3,1-5.91,1.47-8.75s1-5.3,1.44-7.39a5.25,5.25,0,0,1,.74-1.82,1.7,1.7,0,0,1,1.59-.68,9.71,9.71,0,0,1,3.12.33c.81.26,1.58.52,2.32.78a1.93,1.93,0,0,1,1.1,1,5.92,5.92,0,0,1,.38,1.88q.27,2.9.71,6.91t1,8.52c.38,3,.79,6,1.21,9.16s.84,6.07,1.25,8.89a2.59,2.59,0,0,1,0,1.29q-.16.38-.84.45t-1.29.06a3.21,3.21,0,0,1-1.3-.35,2.11,2.11,0,0,1-1-.82,6.61,6.61,0,0,1-.59-1.93c-.18-1-.37-2-.58-3.16s-.4-2.37-.59-3.68Zm2.65-8.88c-.31-2.43-.62-4.81-.93-7.17s-.57-4.65-.81-6.88q-.6,3.14-1.33,7.11t-1.45,8.34A34.69,34.69,0,0,1,51.64,145.45Z"/><path d="M75.79,131.27q-.23,2.58-.56,5.59t-.72,6.21q-.39,3.23-.81,6.31c-.29,2.06-.56,4-.82,5.87s-.51,3.49-.74,4.91a3,3,0,0,1-.73,1.69c-.31.26-.79.25-1.45,0s-1.26-.55-1.83-.83a10.8,10.8,0,0,1-1.82-1.13,5.28,5.28,0,0,1-1.69-2.15,15.32,15.32,0,0,1-.92-2.54q-1.41-6.4-2.68-14t-2.41-16a4.8,4.8,0,0,1,0-1.51c.08-.3.35-.47.81-.52a4.16,4.16,0,0,1,1.28,0,5.64,5.64,0,0,1,1.28.45,4.17,4.17,0,0,1,2.08,3.31c.22,1.35.47,2.88.74,4.61s.57,3.6.9,5.61.67,4.12,1,6.31.74,4.42,1.13,6.66q1-6.85,1.76-14c.52-4.77,1-9.3,1.52-13.62a1.81,1.81,0,0,1,.36-1,.78.78,0,0,1,.66-.25,2,2,0,0,1,.87.34,11.52,11.52,0,0,1,1,.72A6.29,6.29,0,0,1,75.69,124a4.23,4.23,0,0,1,.42,2.79C76.05,128.07,76,129.55,75.79,131.27Z"/><path d="M86.9,150.31a19.29,19.29,0,0,0-3.31,1.57c-.23,1.33-.43,2.57-.59,3.73s-.32,2.29-.48,3.4c-.09.59-.24,1-.43,1.07s-.5.07-.93-.16l-.8-.5a7.87,7.87,0,0,1-.9-.65,3.9,3.9,0,0,1-.78-.84,2.65,2.65,0,0,1-.44-1.08,10.28,10.28,0,0,1,0-2.09c.25-2.28.57-4.87,1-7.76s.85-5.84,1.32-8.84,1-5.91,1.46-8.75,1-5.3,1.45-7.39a5.25,5.25,0,0,1,.74-1.82,1.7,1.7,0,0,1,1.59-.68,9.71,9.71,0,0,1,3.12.33q1.22.39,2.31.78a1.92,1.92,0,0,1,1.11,1,6.21,6.21,0,0,1,.38,1.88c.18,1.93.41,4.23.71,6.91s.64,5.52,1,8.52.78,6.05,1.21,9.16.84,6.07,1.25,8.9a2.56,2.56,0,0,1,0,1.28q-.16.38-.84.45c-.46,0-.89.06-1.3.06a3.21,3.21,0,0,1-1.29-.35,2,2,0,0,1-1-.82,6.61,6.61,0,0,1-.59-1.93c-.18-1-.38-2-.58-3.16s-.4-2.37-.59-3.68Zm2.64-8.88c-.31-2.43-.61-4.81-.92-7.17s-.57-4.65-.81-6.88q-.6,3.13-1.33,7.11c-.49,2.64-1,5.42-1.45,8.34A36.15,36.15,0,0,1,89.54,141.43Z"/><path d="M102.47,121a3,3,0,0,1,1,1.2,4.48,4.48,0,0,1,.16,1.65c-.08,1.27-.15,2.76-.22,4.48s-.11,3.53-.17,5.46-.09,4-.13,6-.07,4.14-.1,6.15,0,3.95,0,5.82,0,3.54,0,5a2.13,2.13,0,0,1-.25,1.15c-.14.18-.45.2-.92.05l-1.4-.57a5,5,0,0,1-1.3-.79,2.55,2.55,0,0,1-.92-1.2,7.36,7.36,0,0,1-.32-2c-.07-1.15-.12-2.59-.17-4.31s-.08-3.58-.11-5.59,0-4.11-.06-6.29,0-4.29,0-6.34,0-4,.08-5.79.08-3.36.13-4.62a2.27,2.27,0,0,1,.42-1.43c.23-.19.59-.2,1.1,0a7.27,7.27,0,0,1,1.66.77A10.17,10.17,0,0,1,102.47,121Z"/><path d="M118.19,153.38,114.87,155c-1.13.55-2.21,1.08-3.23,1.6a2.77,2.77,0,0,1-1,.43,1.59,1.59,0,0,1-.69,0,1.22,1.22,0,0,1-.51-.25,4.32,4.32,0,0,1-.45-.42,11.28,11.28,0,0,1-.93-1c-.28-.36-.65-.83-1.12-1.39a5.7,5.7,0,0,1-.83-1.52,6.16,6.16,0,0,1-.32-2.09c0-1.26-.09-2.71-.12-4.37s0-3.41,0-5.26,0-3.79.06-5.77.07-3.93.13-5.85.12-3.74.19-5.47.16-3.3.25-4.71a2.11,2.11,0,0,1,.48-1.4,1.1,1.1,0,0,1,1.08,0,8.63,8.63,0,0,1,1.65.72,8.88,8.88,0,0,1,1.63,1.13,3.16,3.16,0,0,1,.91,1.21,3.69,3.69,0,0,1,.11,1.6q-.18,2.53-.33,5.67c-.1,2.09-.2,4.27-.28,6.53s-.17,4.55-.24,6.88-.14,4.59-.18,6.77a20.61,20.61,0,0,1,2.17-.79c.69-.21,1.44-.41,2.23-.6a1.49,1.49,0,0,1,1.1.07,2.39,2.39,0,0,1,.85,1.11,16.27,16.27,0,0,1,.73,1.71c.21.6.38,1.17.53,1.74a4.87,4.87,0,0,1,.27,1.4C119,152.88,118.71,153.13,118.19,153.38Z"/><path d="M128.69,145.88a19.54,19.54,0,0,0-3.3,1.57c-.24,1.32-.43,2.57-.6,3.73s-.31,2.29-.47,3.4c-.1.59-.24.94-.43,1.07s-.5.07-.93-.16l-.8-.5a7.87,7.87,0,0,1-.9-.65,3.9,3.9,0,0,1-.78-.84,2.57,2.57,0,0,1-.44-1.08,10.37,10.37,0,0,1,0-2.1c.24-2.27.57-4.86,1-7.75s.85-5.84,1.32-8.84,1-5.92,1.46-8.75,1-5.3,1.45-7.4a5.09,5.09,0,0,1,.74-1.81,1.7,1.7,0,0,1,1.59-.68,9.71,9.71,0,0,1,3.12.33c.81.26,1.58.51,2.31.78a1.89,1.89,0,0,1,1.11,1,6.53,6.53,0,0,1,.38,1.88q.26,2.9.71,6.91t1,8.51c.39,3,.79,6.06,1.22,9.16s.84,6.08,1.25,8.9a2.59,2.59,0,0,1,0,1.29c-.11.25-.39.4-.84.44a12,12,0,0,1-1.3.07,3.21,3.21,0,0,1-1.29-.35,2.07,2.07,0,0,1-1-.82,6.61,6.61,0,0,1-.59-1.93c-.18-1-.38-2-.58-3.16s-.4-2.37-.59-3.68Zm2.65-8.88c-.31-2.43-.61-4.82-.92-7.17s-.57-4.65-.81-6.88c-.4,2.09-.84,4.46-1.34,7.11s-1,5.42-1.44,8.34A34.55,34.55,0,0,1,131.34,137Z"/><path d="M152.24,133.25a6.82,6.82,0,0,1,1.94,2.37A13.43,13.43,0,0,1,155.4,139a10.28,10.28,0,0,1,.17,3.69,11.14,11.14,0,0,1-1,3.15,12.46,12.46,0,0,1-1.4,2.35,22.61,22.61,0,0,1-1.76,2.11,18.79,18.79,0,0,1-1.92,1.79,17.9,17.9,0,0,1-1.91,1.35,6.48,6.48,0,0,1-.84.47,1.45,1.45,0,0,1-.69.16,1.49,1.49,0,0,1-.69-.21,4,4,0,0,1-.8-.61A9.61,9.61,0,0,1,143,152c-.44-.45-1-1-1.55-1.76-.23-.38-.43-.71-.61-1a4.49,4.49,0,0,1-.43-.88,5.08,5.08,0,0,1-.26-1.07,12.21,12.21,0,0,1-.1-1.53c-.1-2-.17-4.15-.21-6.55s-.08-4.85-.13-7.35-.1-5-.16-7.46-.16-4.75-.3-6.85a14.62,14.62,0,0,1,3-2.52,13.6,13.6,0,0,1,3.69-1.7,8.77,8.77,0,0,1,3.64-.28,4.33,4.33,0,0,1,2.88,1.66,21.16,21.16,0,0,1,1.78,2.86,17.47,17.47,0,0,1,1.34,3.67,10.69,10.69,0,0,1,.16,4.59,14.55,14.55,0,0,1-1.28,3.92q-.48.87-1,1.74A15.68,15.68,0,0,1,152.24,133.25Zm-7.16,5.15c0,1.31-.05,2.59-.08,3.85s0,2.55,0,3.84a13.12,13.12,0,0,0,2.33-1.8,10.58,10.58,0,0,0,1.68-2.08,8.18,8.18,0,0,0,.94-2.07,3.34,3.34,0,0,0,.07-1.79,1.65,1.65,0,0,0-.59-.81,2.13,2.13,0,0,0-1-.38,3.65,3.65,0,0,0-1.48.24A6.63,6.63,0,0,0,145.08,138.4Zm.25-7.65a13.49,13.49,0,0,0,2.56-2.44,17.47,17.47,0,0,0,1.79-2.73,10.37,10.37,0,0,0,1-2.5,3.75,3.75,0,0,0,.07-1.8c-.21-.7-.79-1-1.75-.82a6.8,6.8,0,0,0-3.31,2.07c-.09,1.2-.15,2.49-.2,3.86S145.38,129.21,145.33,130.75Z"/><path d="M170.22,147.87l-3.32,1.6c-1.13.55-2.21,1.08-3.24,1.6a2.71,2.71,0,0,1-1,.44,1.75,1.75,0,0,1-.69,0,1.32,1.32,0,0,1-.52-.25l-.45-.41a11.45,11.45,0,0,1-.92-1.06c-.28-.36-.65-.82-1.12-1.39a5.7,5.7,0,0,1-.83-1.52,6.12,6.12,0,0,1-.32-2.09c-.06-1.26-.09-2.71-.12-4.36s0-3.41,0-5.27,0-3.78.06-5.76.07-3.94.13-5.85.11-3.74.19-5.47.15-3.3.25-4.71a2.12,2.12,0,0,1,.48-1.41,1.09,1.09,0,0,1,1.07,0,8.43,8.43,0,0,1,1.66.72,8.21,8.21,0,0,1,1.62,1.13,3.15,3.15,0,0,1,.92,1.2,3.9,3.9,0,0,1,.11,1.61c-.12,1.68-.23,3.57-.33,5.66s-.2,4.27-.28,6.53-.17,4.56-.25,6.88-.13,4.59-.17,6.78a20.75,20.75,0,0,1,2.17-.8c.69-.21,1.43-.41,2.23-.59a1.45,1.45,0,0,1,1.1.06,2.52,2.52,0,0,1,.85,1.11,16.38,16.38,0,0,1,.72,1.72,16.12,16.12,0,0,1,.53,1.73,4.28,4.28,0,0,1,.27,1.41C171,147.36,170.73,147.61,170.22,147.87Z"/><path d="M177.06,111.22a24.41,24.41,0,0,1,5.45-1.65c.87-.16,1.51.35,1.91,1.53a13.63,13.63,0,0,1,.64,1.68c.15.49.31,1,.48,1.63a3.18,3.18,0,0,1,.09,1.45,1.15,1.15,0,0,1-.81.63c-.91.26-1.88.55-2.89.86s-2.05.67-3.15,1.06c-.08,1.27-.16,2.61-.22,4s-.16,2.88-.26,4.43a9.12,9.12,0,0,1,1.47-.44c.49-.1,1-.2,1.53-.29a1.73,1.73,0,0,1,1.11.11,2.23,2.23,0,0,1,.8,1.07,14,14,0,0,1,.69,1.72c.18.56.36,1.14.53,1.73a2.86,2.86,0,0,1,.19,1.42,1.39,1.39,0,0,1-.78.69q-1.47.67-3,1.32c-1,.43-2,.89-3,1.36,0,1-.06,2-.1,2.9s-.07,1.86-.11,2.75a21.41,21.41,0,0,1,2.26-.88c.73-.23,1.52-.44,2.36-.63a1.43,1.43,0,0,1,1.13.09,2.2,2.2,0,0,1,.82,1.09,18.72,18.72,0,0,1,.72,1.76l.59,1.73a3.31,3.31,0,0,1,.17,1.39c-.07.26-.32.5-.76.72-1.08.52-2.19,1.07-3.32,1.63s-2.21,1.09-3.24,1.57a2,2,0,0,1-1.6.4,2.85,2.85,0,0,1-1-.68c-.34-.34-.66-.69-1-1s-.67-.83-1.08-1.4a5.62,5.62,0,0,1-.84-1.6,8.3,8.3,0,0,1-.38-2.26l0-29.57A45.9,45.9,0,0,1,177.06,111.22Z"/><path d="M188.55,142.83a4.6,4.6,0,0,1,.58-1.62,2.17,2.17,0,0,1,1-.93,2,2,0,0,1,1.53.09,2.9,2.9,0,0,1,1.27.92,5.41,5.41,0,0,1,.82,1.39,6.61,6.61,0,0,1,.41,1.57,7.14,7.14,0,0,1,.05,1.43,7.47,7.47,0,0,1-.19,1.12,6.59,6.59,0,0,1-.43,1.25,3.58,3.58,0,0,1-.73,1,1.73,1.73,0,0,1-1,.5,2.38,2.38,0,0,1-2.24-1.07,6.5,6.5,0,0,1-1.18-3.69A7.65,7.65,0,0,1,188.55,142.83Zm6.44-33a4.59,4.59,0,0,1,.15,1.81q-.22,3.14-.45,6.47c-.14,2.21-.28,4.43-.41,6.64s-.24,4.38-.34,6.51-.17,4.13-.22,6a2,2,0,0,1-.27,1.28c-.17.17-.46.2-.88.07a6.72,6.72,0,0,1-2.65-1.25,2.57,2.57,0,0,1-.92-1.19,5.93,5.93,0,0,1-.23-2q0-2.66,0-6.11c0-2.31.06-4.65.11-7s.11-4.69.19-7,.17-4.25.26-6a2.56,2.56,0,0,1,.39-1.5c.21-.21.58-.21,1.12,0a9.49,9.49,0,0,1,3.2,1.86A3.23,3.23,0,0,1,195,109.85Z"/></svg>
+
+)
+
+
+export default Sticker

diff --git a/src/components/layout.css b/src/components/layout.css
@@ -624,10 +624,12 @@ header {
 @media (max-width:920px){
   .top-section {
     flex-direction:column-reverse;
+    margin:1.5rem 0;
   }
 
   .top-section-text {
     width:100%;
+    padding:0 1.45rem;
   }
 
   .book-cover {
@@ -656,13 +658,41 @@ header {
   border-bottom:6px solid #234f4c;
 }
 
+@media (max-width:670px){
+  .fixed-image, .fixed-image-2 {
+    background-position:2%;
+  }
+}
+
+.nps-section {
+  display: flex;
+  padding: 0 1.0875rem 1.45rem;
+  margin: 3rem auto;
+  justify-content:center;
+  align-items: center;
+}
+
+.nps-logo {
+  margin-right:3rem;
+}
+
+@media (max-width:860px){
+  .nps-section{
+    flex-direction: column-reverse;
+    text-align: center;
+  }
+  .nps-logo {
+    margin:1rem 0 0 0;
+  }
+}
+
 .rei {
   width:76px;
   height:48px;
 }
 
 .link-section img {
-  max-width:150px;
+
 }
 
 .link-section a:link {
@@ -686,10 +716,15 @@ header {
   text-align:center;
 }
 
-.link-sub > div{
-  width:300px;
-  margin:30px;
+
+
+.link-sub a {
+  margin:0 3rem 0 0;
 }
+.link-sub a:last-child {
+margin:0;
+}
+
 
 .smaller {
   font-size:.5em;
@@ -714,27 +749,48 @@ h3 {
 
 nav {
   max-width:1170px;
-  margin:15px auto;
+  margin:0 auto;
   text-align: center;
 }
 
 nav a {
   font-size:1.8em;
   text-decoration:none;
-  border-bottom: 2px solid #7b8E7b;
-  box-shadow: inset 0 -4px 0 #7b8E7b;
+
+  /*box-shadow: inset 0 -4px 0 #7b8E7b;*/
   color: #ffffff;
-  transition: background 0.1s cubic-bezier(.33,.66,.66,1);
-  margin-left:1em;
+
+
   padding:0 1em;
+
+  background: url(../images/diary.png)no-repeat;
+  background-size:40px;
+  background-position:-50px;
 }
 
-nav a:hover {
- background: #7b8e7b;
- color:#fff;
- transition: .4s ease-in;
+nav a:hover, nav a:active {
+
 }
 
+nav a:first-child:hover {
+  background: url(../images/diary-white.png)no-repeat #6683b2;
+  background-size:30px;
+  border-radius:44px;
+  transition: .4s ease-in ;
+  padding-left:60px;
+  animation-direction: normal;
+  background-position:12px;
+}
+
+nav a:last-child:hover {
+  background: url(../images/cactus-nav.png)no-repeat #6683b2;
+  background-size:40px;
+  border-radius:44px;
+  transition: .4s ease-in ;
+  padding-left:60px;
+  animation-direction: normal;
+  background-position:12px;
+}
 .gatsby-image-wrapper img {
   height:auto!important;
 }
@@ -753,7 +809,14 @@ nav a:hover {
   height:180px;
   float:right;
   margin-left:10px;
-  margin-bottom:60px!important;
+
+}
+
+@media (max-width:415px){
+  .sticker {
+    width:110px;
+    height:110px;
+  }
 }
 
 .cls-1{
@@ -784,18 +847,27 @@ nav a:hover {
 }
 
 
-@media (max-width:768px){
+@media (max-width:860px){
 
   .family{
     float:none!important;
+    margin:0 auto 2rem;
+    display:block;
   }
 
   .link-sub {
     flex-direction: column;
+
   }
 
-  .link-sub div{
-    width:100%;
+  .link-sub .gatsby-image-wrapper img {
+    height:45px!important;
+  }
+
+
+
+  .link-sub a {
+    margin:0 auto 2rem;
   }
 
   .link-sub img {
@@ -816,3 +888,5 @@ color: #318cba;
 footer a:visited {
   color:transparent;
 }
+
+/*<a href="https://www.flaticon.com/free-icons/diary" title="diary icons">Diary icons created by khulqi Rosyid - Flaticon</a>*/

diff --git a/src/components/header.js b/src/components/header.js
@@ -15,8 +15,8 @@ const Header = ({ siteTitle }) => (
     >
     <nav>
 
-      <Link to="#bio">OUR STORY</Link>
-      <Link to="#link-section">GET OUTSIDE!</Link>
+      <Link to="#bio">Our Story</Link>
+      <Link to="#link-section">Get Outside!</Link>
 
     </nav>
 
